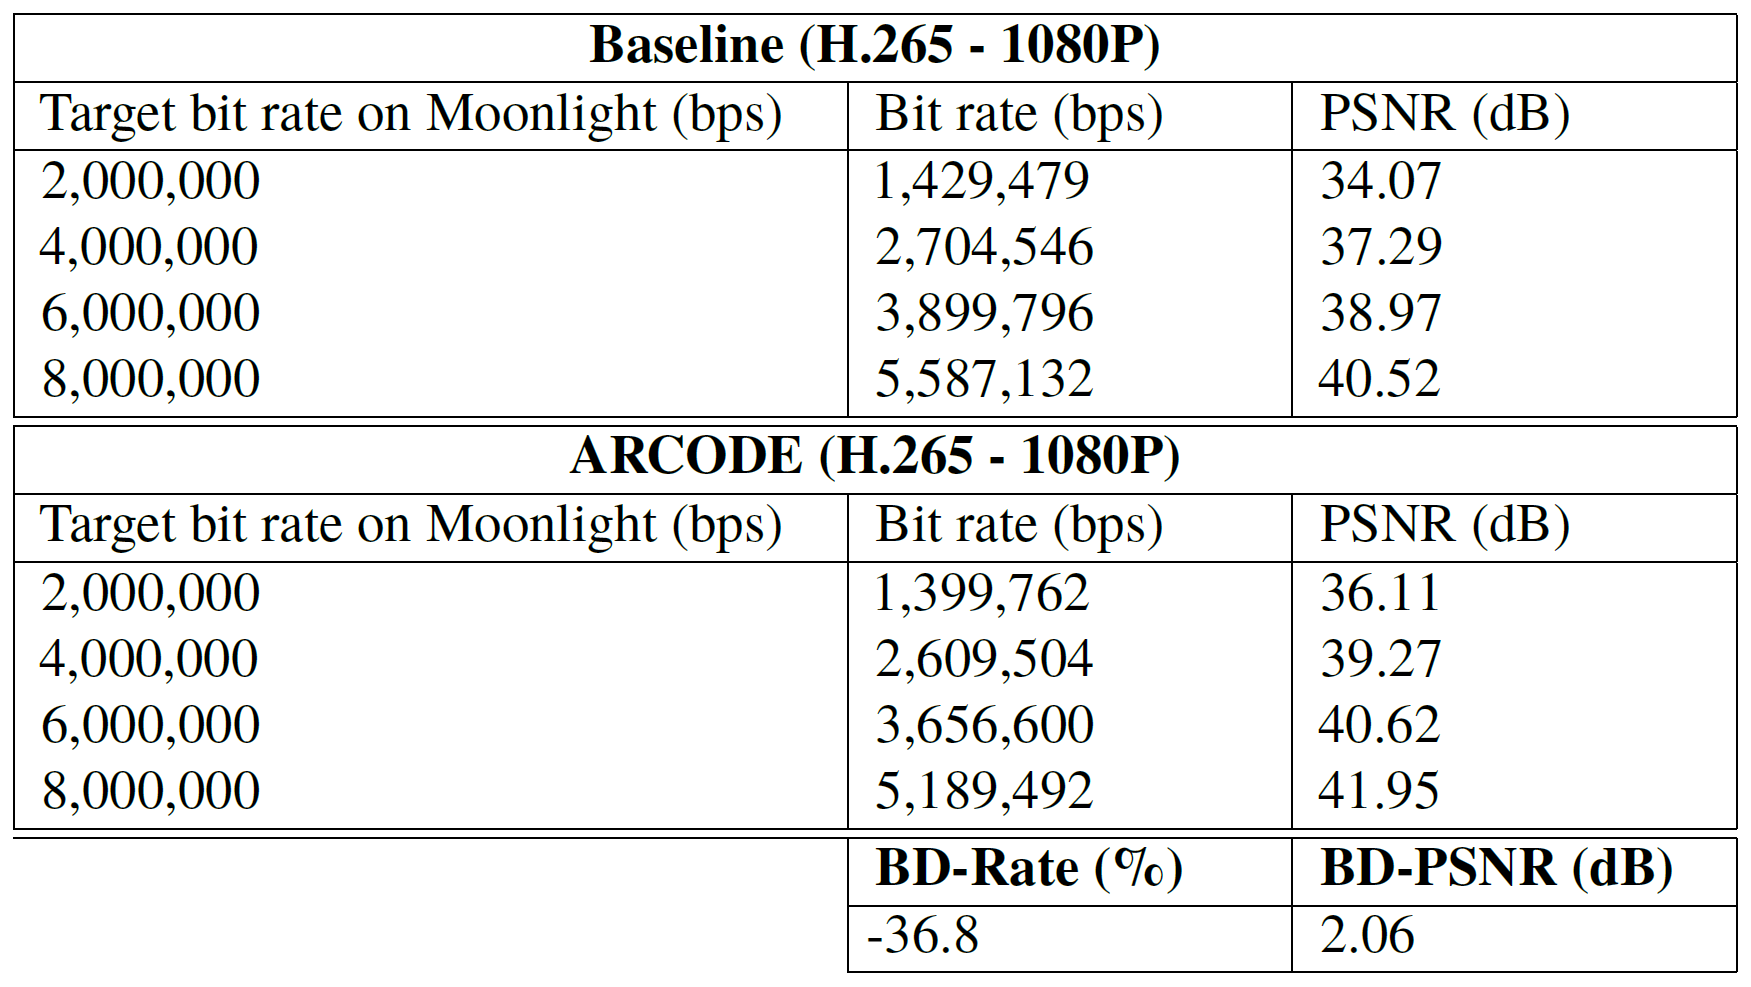
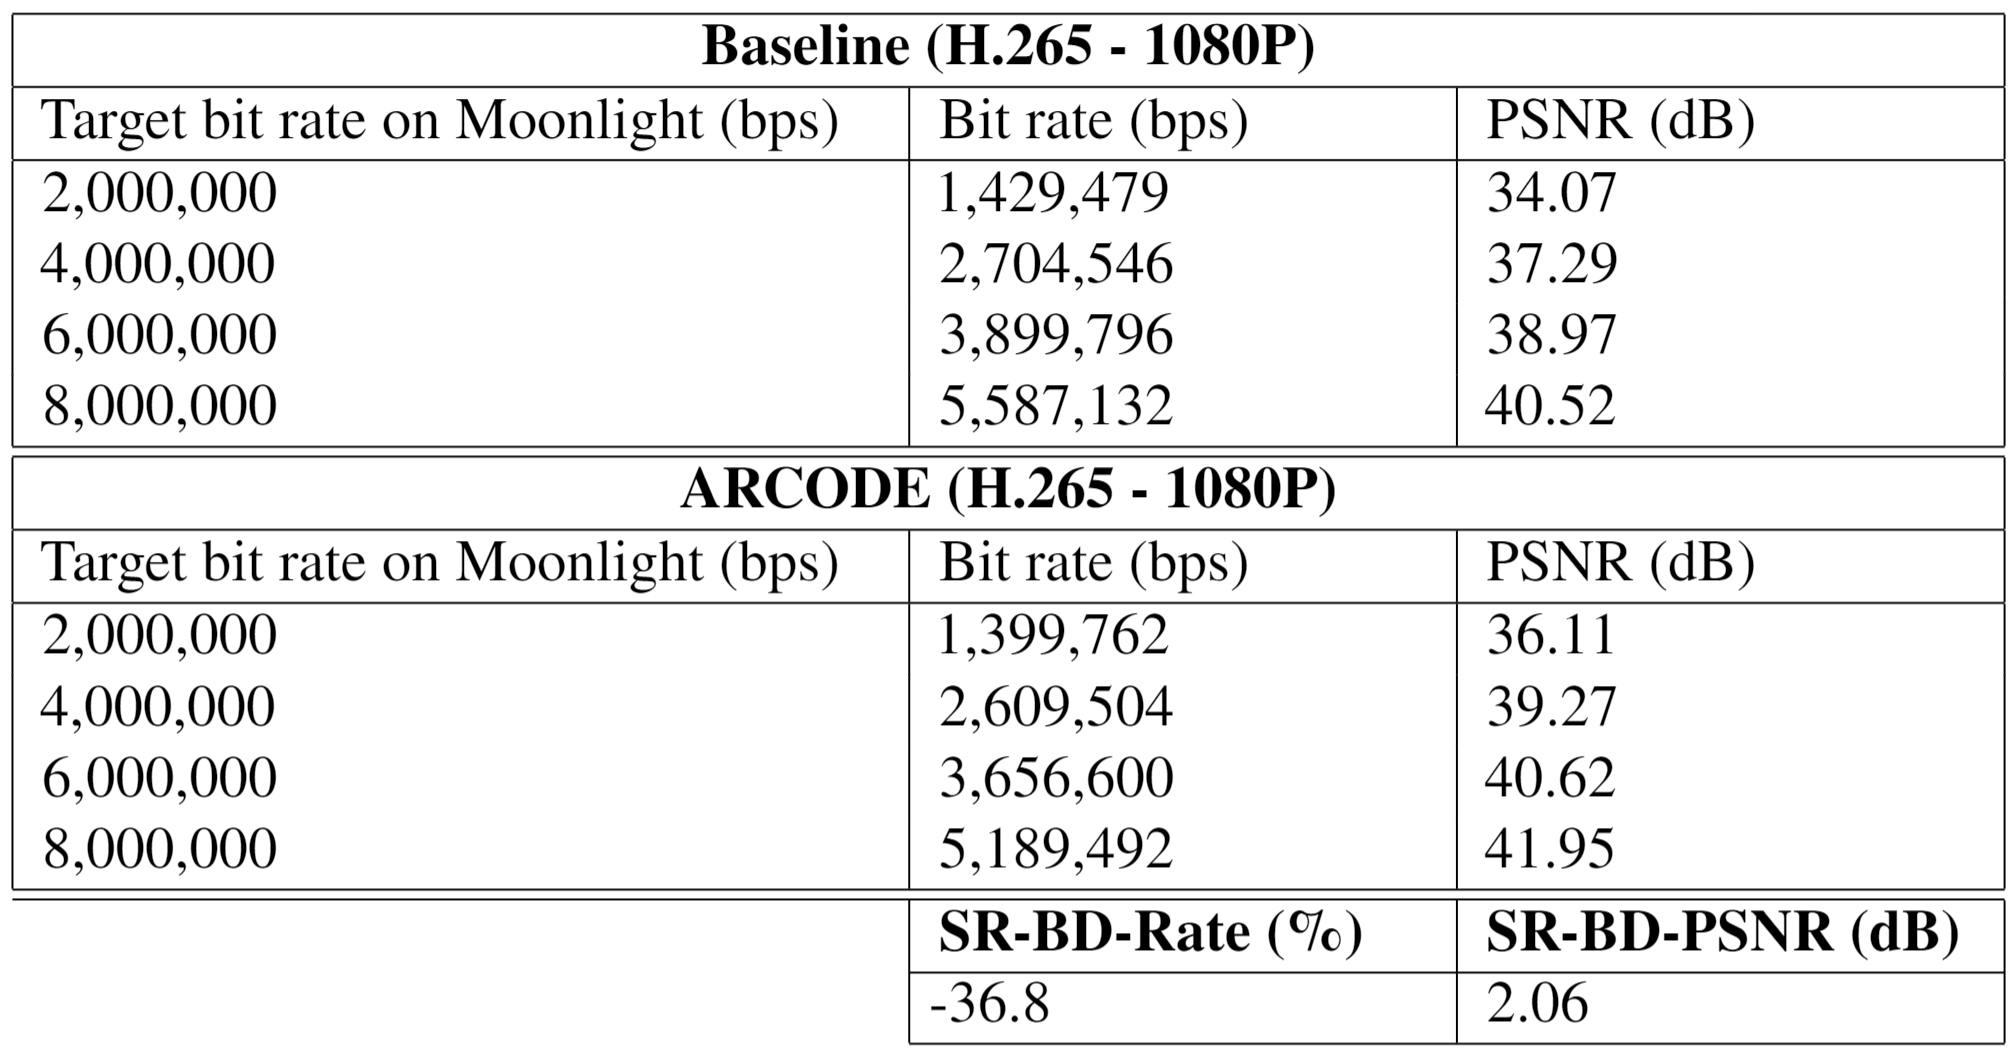
tables are added with the correct model evaluation metric names

Changed region(s): [[0.0, 0.0, 1.0, 1.0]]

diff --git a/images/index.html b/images/index.html
@@ -66,15 +66,6 @@
       </div>
       <div class="polaroid">
         <div class="text-container">
-          <h2>First scenario - Comparison of the image quality of the content generated in baseline with the content generated in ARCODE when the client entity is idle in the scene without any camera movement in the scene (H265 - 1080P - 2 Mbps)</h2>
-        </div>
-        <img src="/img/in-game-images/H265-Baseline-1080-2.png">
-        <h3><center>Baseline</center></h3>
-        <img src="/img/in-game-images/H265-ARCODE-1080-2.png">
-        <h3><center>ARCODE</center></h3>
-      </div>
-      <div class="polaroid">
-        <div class="text-container">
           <h2>First scenario - Comparison of the image quality of the content generated in baseline with the content generated in ARCODE when the client entity is idle in the scene without any camera movement in the scene (H265 - 720P - 1 Mbps)</h2>
         </div>
         <img src="/img/in-game-images/H265-Baseline-720-1.png">
@@ -93,38 +84,11 @@
       </div>
       <div class="polaroid">
         <div class="text-container">
-          <h2>First scenario - Comparison of the image quality of the content generated in baseline with the content generated in ARCODE when the client entity is moving in the scene with camera following its position (H264 - 1080P - 4 Mbps)</h2>
-        </div>
-        <img src="/img/in-game-images/CameraTranslation-H264-Baseline-1080-4.png">
-        <h3><center>Baseline</center></h3>
-        <img src="/img/in-game-images/CameraTranslation-H264-ARCODE-1080-4.png">
-        <h3><center>ARCODE</center></h3>
-      </div>
-      <div class="polaroid">
-        <div class="text-container">
           <h2>Boss fight scenario - Comparison of the image quality of the content generated in baseline with the content generated in ARCODE when the client entity is idle in the scene (H264 - 1080P - 4 Mbps)</h2>
         </div>
         <img src="/img/in-game-images/bossFight-H264-Baseline-1080-4.png">
         <h3><center>Baseline</center></h3>
         <img src="/img/in-game-images/bossFight-H264-ARCODE-1080-4.png">
-        <h3><center>ARCODE</center></h3>
-      </div>
-      <div class="polaroid">
-        <div class="text-container">
-          <h2>Sensitivity test - Comparison of the image quality of the content generated in baseline with the content generated in ARCODE when the client entity is idle in the scene, and NPCs are moving in the scene without using their skills (H264 - 1080P - 2 Mbps)</h2>
-        </div>
-        <img src="/img/in-game-images/relax-H264-Baseline-1080-2.png">
-        <h3><center>Baseline</center></h3>
-        <img src="/img/in-game-images/relax-H264-ARCODE-1080-2.png">
-        <h3><center>ARCODE</center></h3>
-      </div>
-      <div class="polaroid">
-        <div class="text-container">
-          <h2>Sensitivity test - Comparison of the image quality of the content generated in baseline with the content generated in ARCODE when the client entity is idle in the scene, and NPCs are continuously using their skills (H264 - 1080P - 2 Mbps)</h2>
-        </div>
-        <img src="/img/in-game-images/intense-H264-Baseline-1080-4.png">
-        <h3><center>Baseline</center></h3>
-        <img src="/img/in-game-images/intense-H264-ARCODE-1080-4.png">
         <h3><center>ARCODE</center></h3>
       </div>
     </div>
